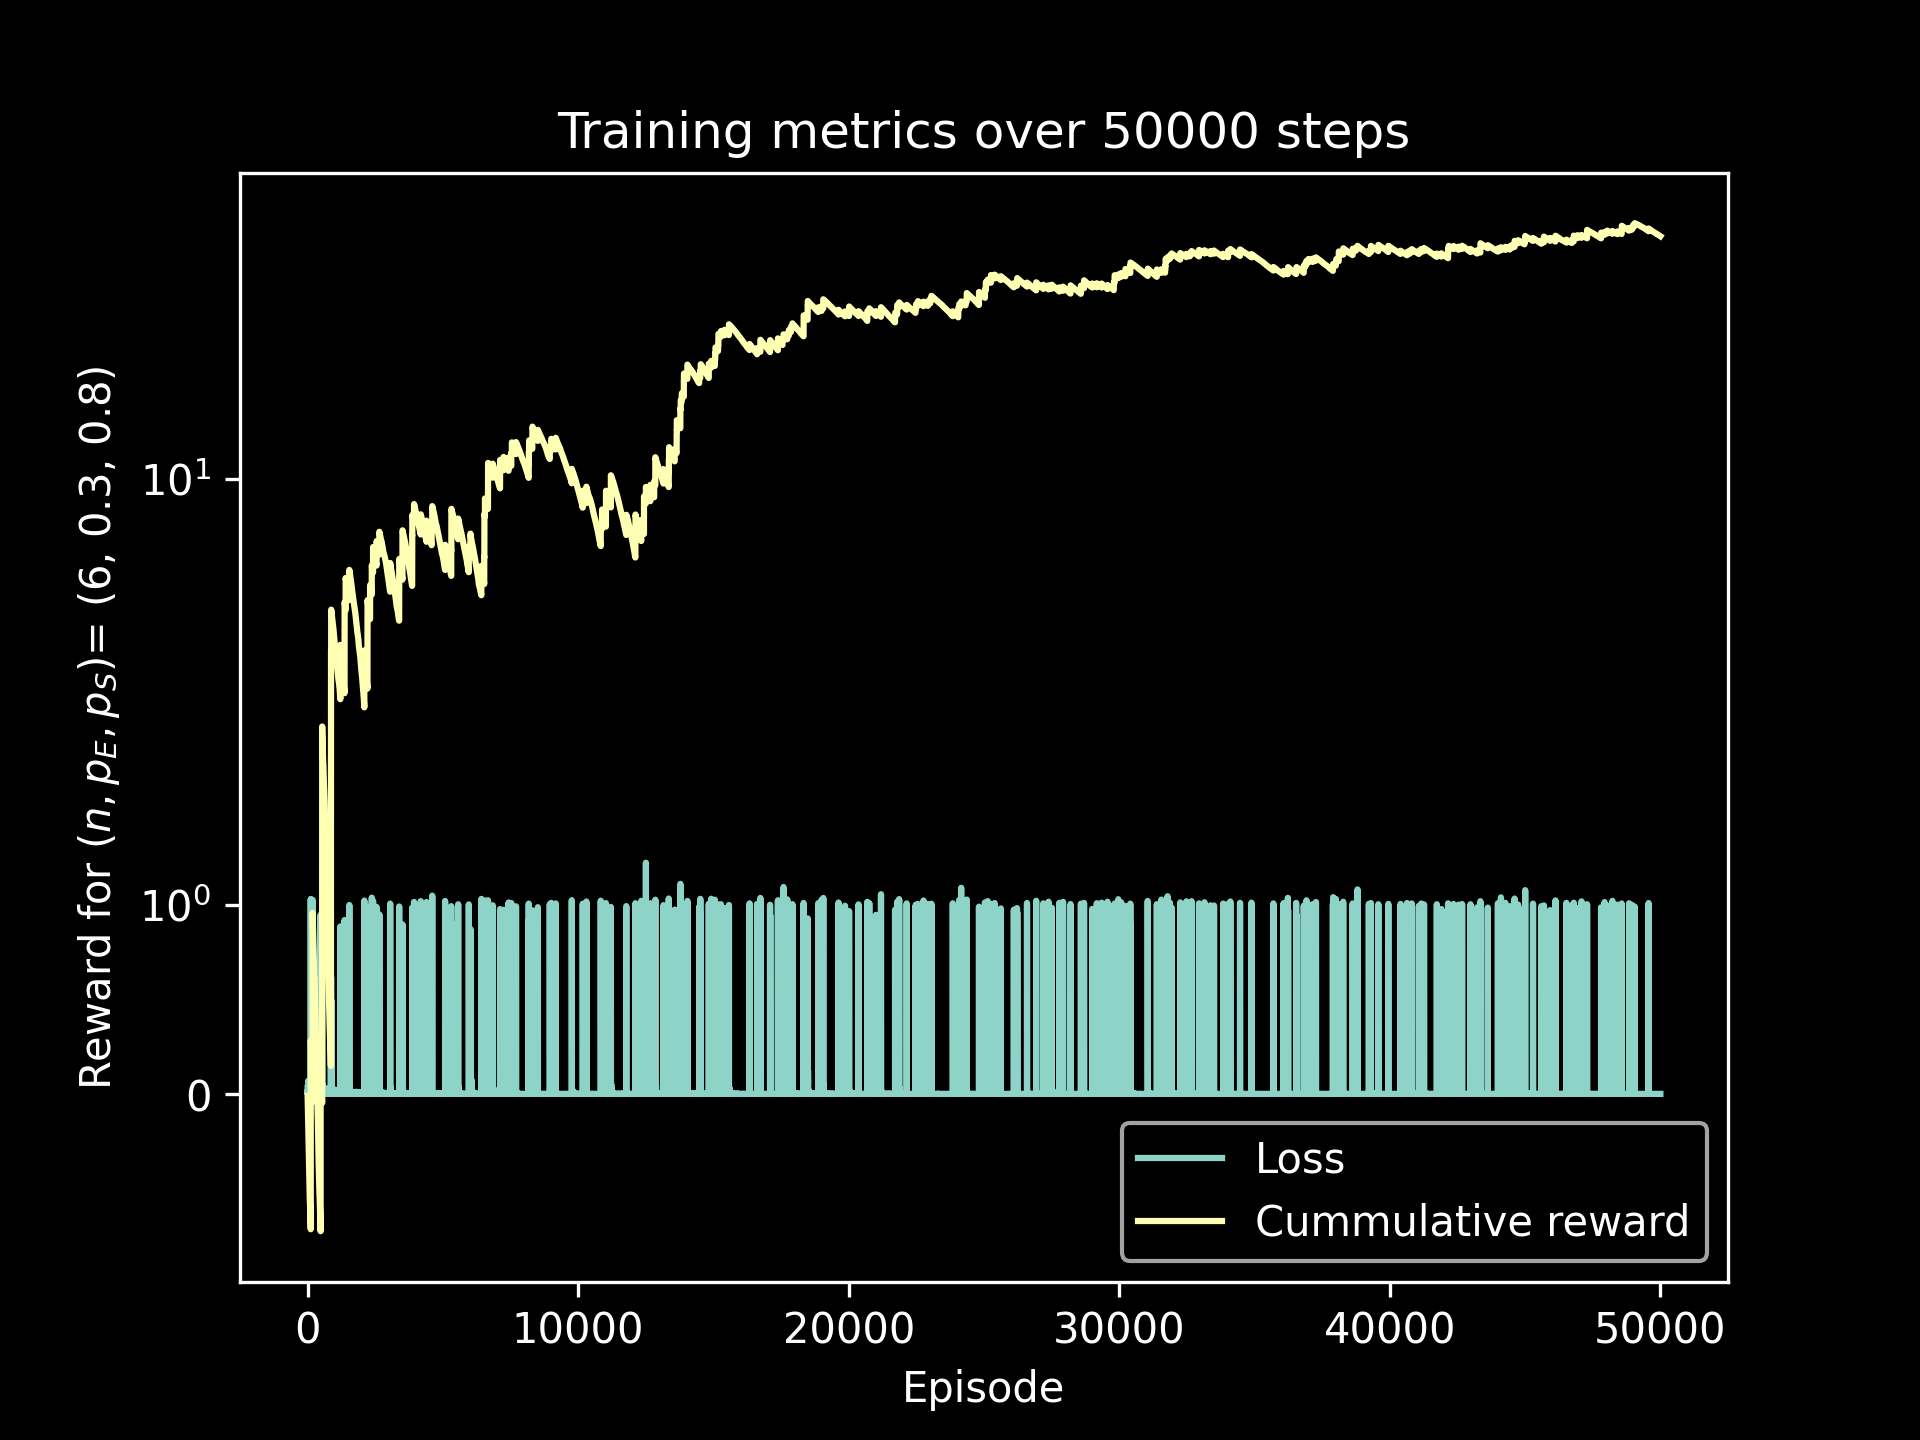
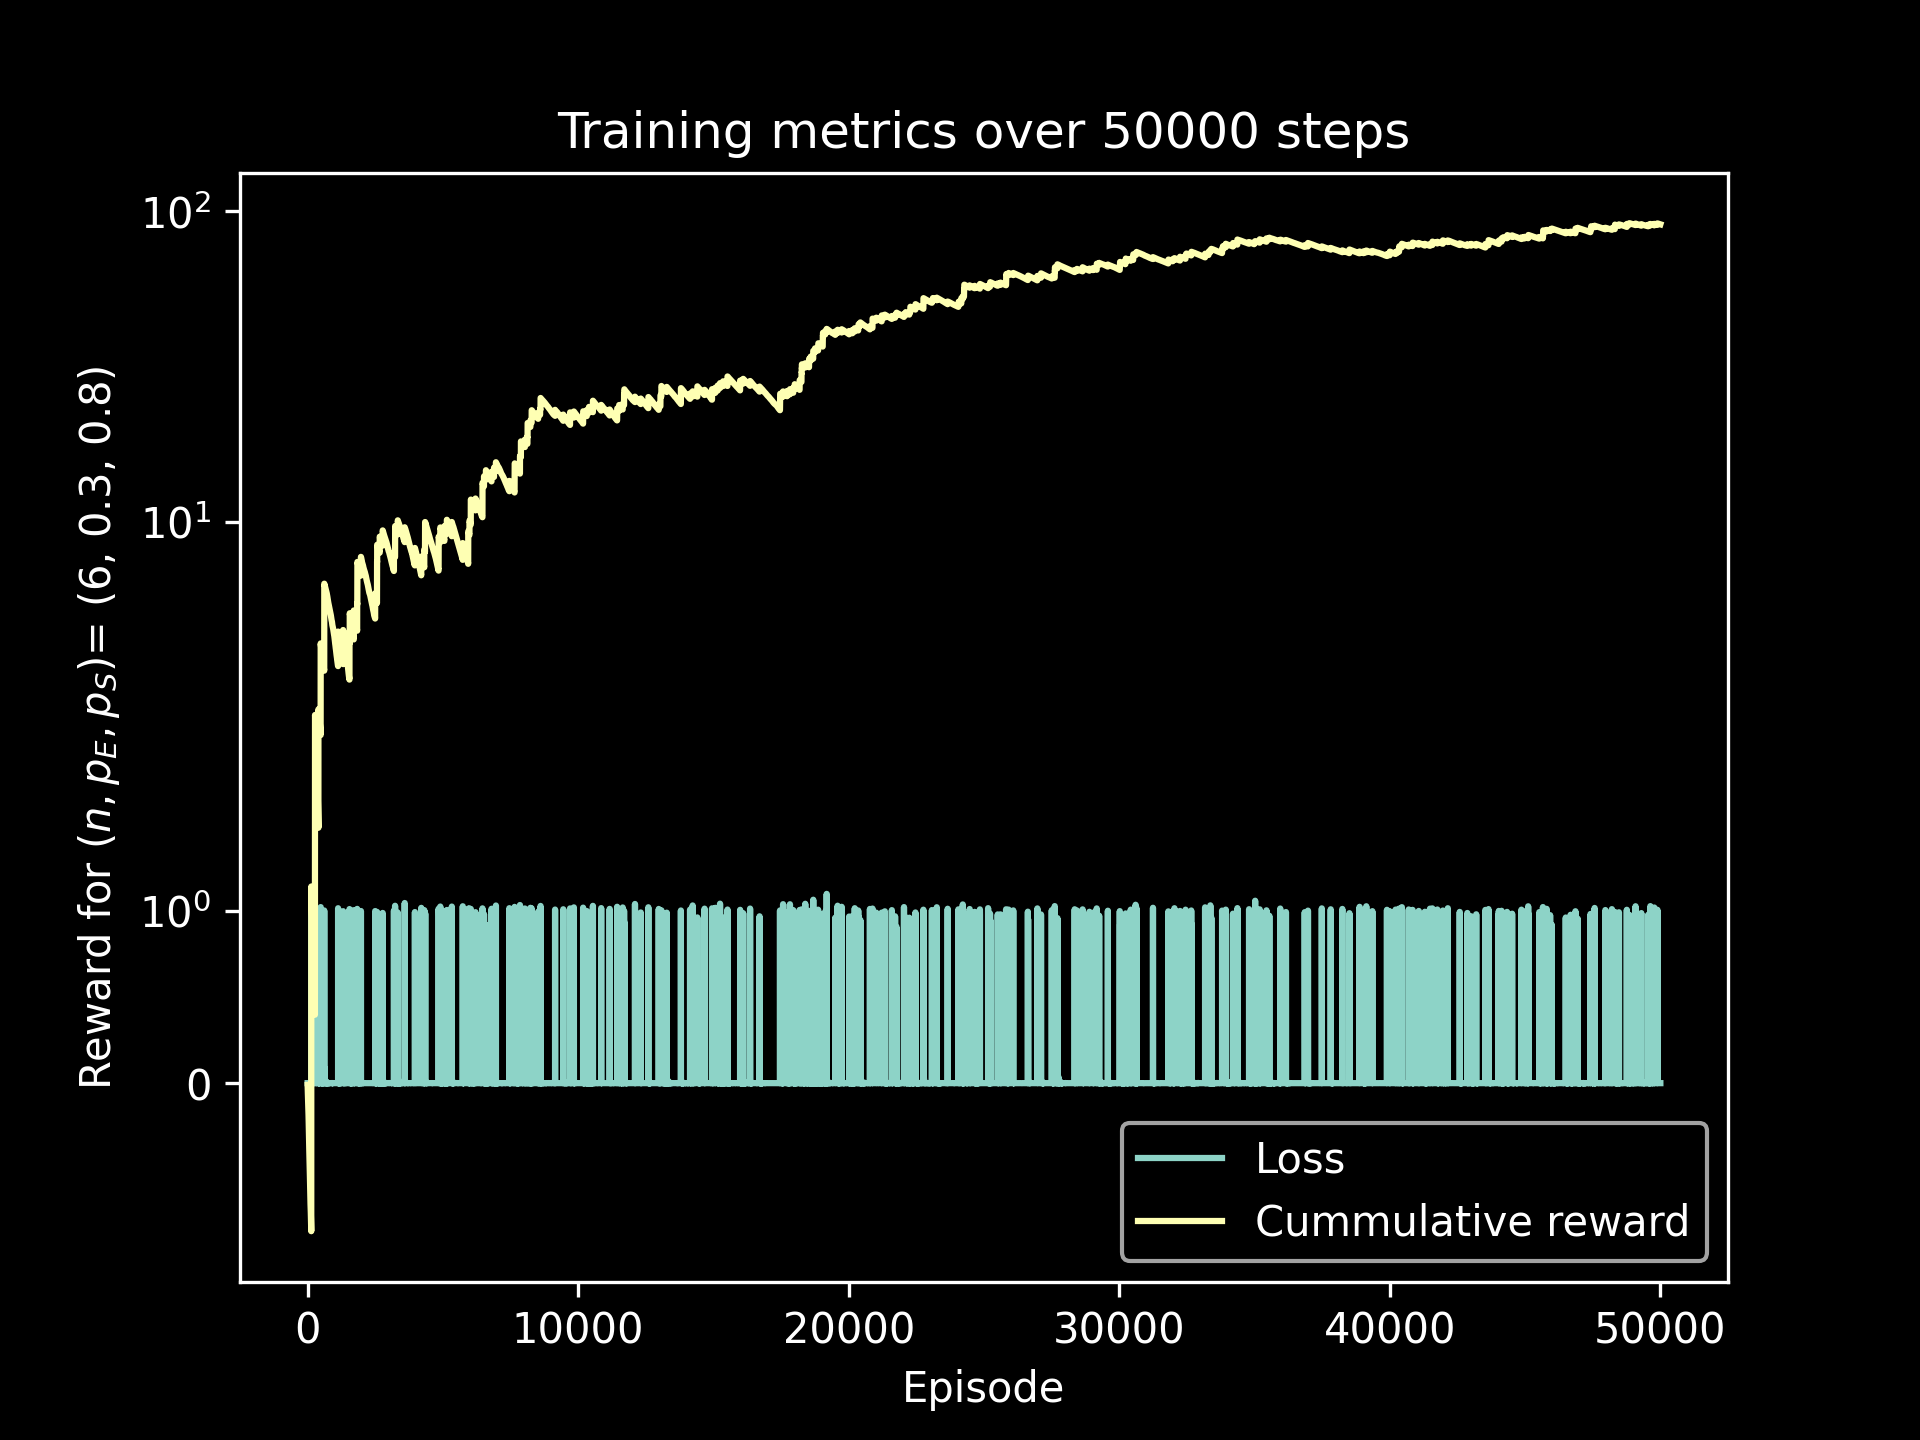
code: included cutoff

diff --git a/src/main.py b/src/main.py
@@ -20,15 +20,18 @@ if __name__ == '__main__':
         TRAIN_STEPS = 30_000
 
         N_TRAIN = 4
+
         P_ENTANGLE_TRAIN = 0.6
         P_SWAP_TRAIN = 0.8
-        TAU_TRAIN = 700
+        CUTOFF = 50 # after cutoff/tau time the link is discarded
+        TAU = 100
 
         # Re-initialize the agent, now to be used as a zero-shot learner
         agent = AgentGNN(n=N_TRAIN, 
+                        cutoff = CUTOFF,
                         p_entangle=P_ENTANGLE_TRAIN, 
                         p_swap=P_SWAP_TRAIN, 
-                        tau=TAU_TRAIN)
+                        tau=TAU)
 
         #Train ONCE to use for testing (also save the model)
         agent.train(episodes=TRAIN_STEPS, plot=True, save_model=True)
@@ -59,7 +62,6 @@ if __name__ == '__main__':
 
         P_ENTANGLE_SCALING = 0.3
         P_SWAP_SCALING = 0.8
-        TAU_SCALING = 100
 
         #Train again ONCE to use for testing (also save the model)
         agent.train(episodes=TRAIN_STEPS_SCALING, plot=True, save_model=True)
@@ -70,4 +72,4 @@ if __name__ == '__main__':
                     N_range=N_RANGE, 
                     p_e=P_ENTANGLE_SCALING, 
                     p_s=P_SWAP_SCALING, 
-                    tau=TAU_SCALING)
+                    tau=TAU)

diff --git a/src/agent.py b/src/agent.py
@@ -17,8 +17,8 @@ class AgentGNN(RepeaterNetwork):
                n=4,
                directed = False,
                geometry = 'chain',
-               kappa = 1,
                tau = 1_000,
+               cutoff = None,
                p_entangle = 1,
                p_swap = 1,
                lr=0.001,
@@ -46,7 +46,7 @@ class AgentGNN(RepeaterNetwork):
       test()
     """
 
-    super().__init__(n, directed, geometry, kappa, tau, p_entangle, p_swap)
+    super().__init__(n, directed, geometry, cutoff, tau, p_entangle, p_swap)
     self.lr=lr
     self.gamma = gamma
     self.epsilon = epsilon
